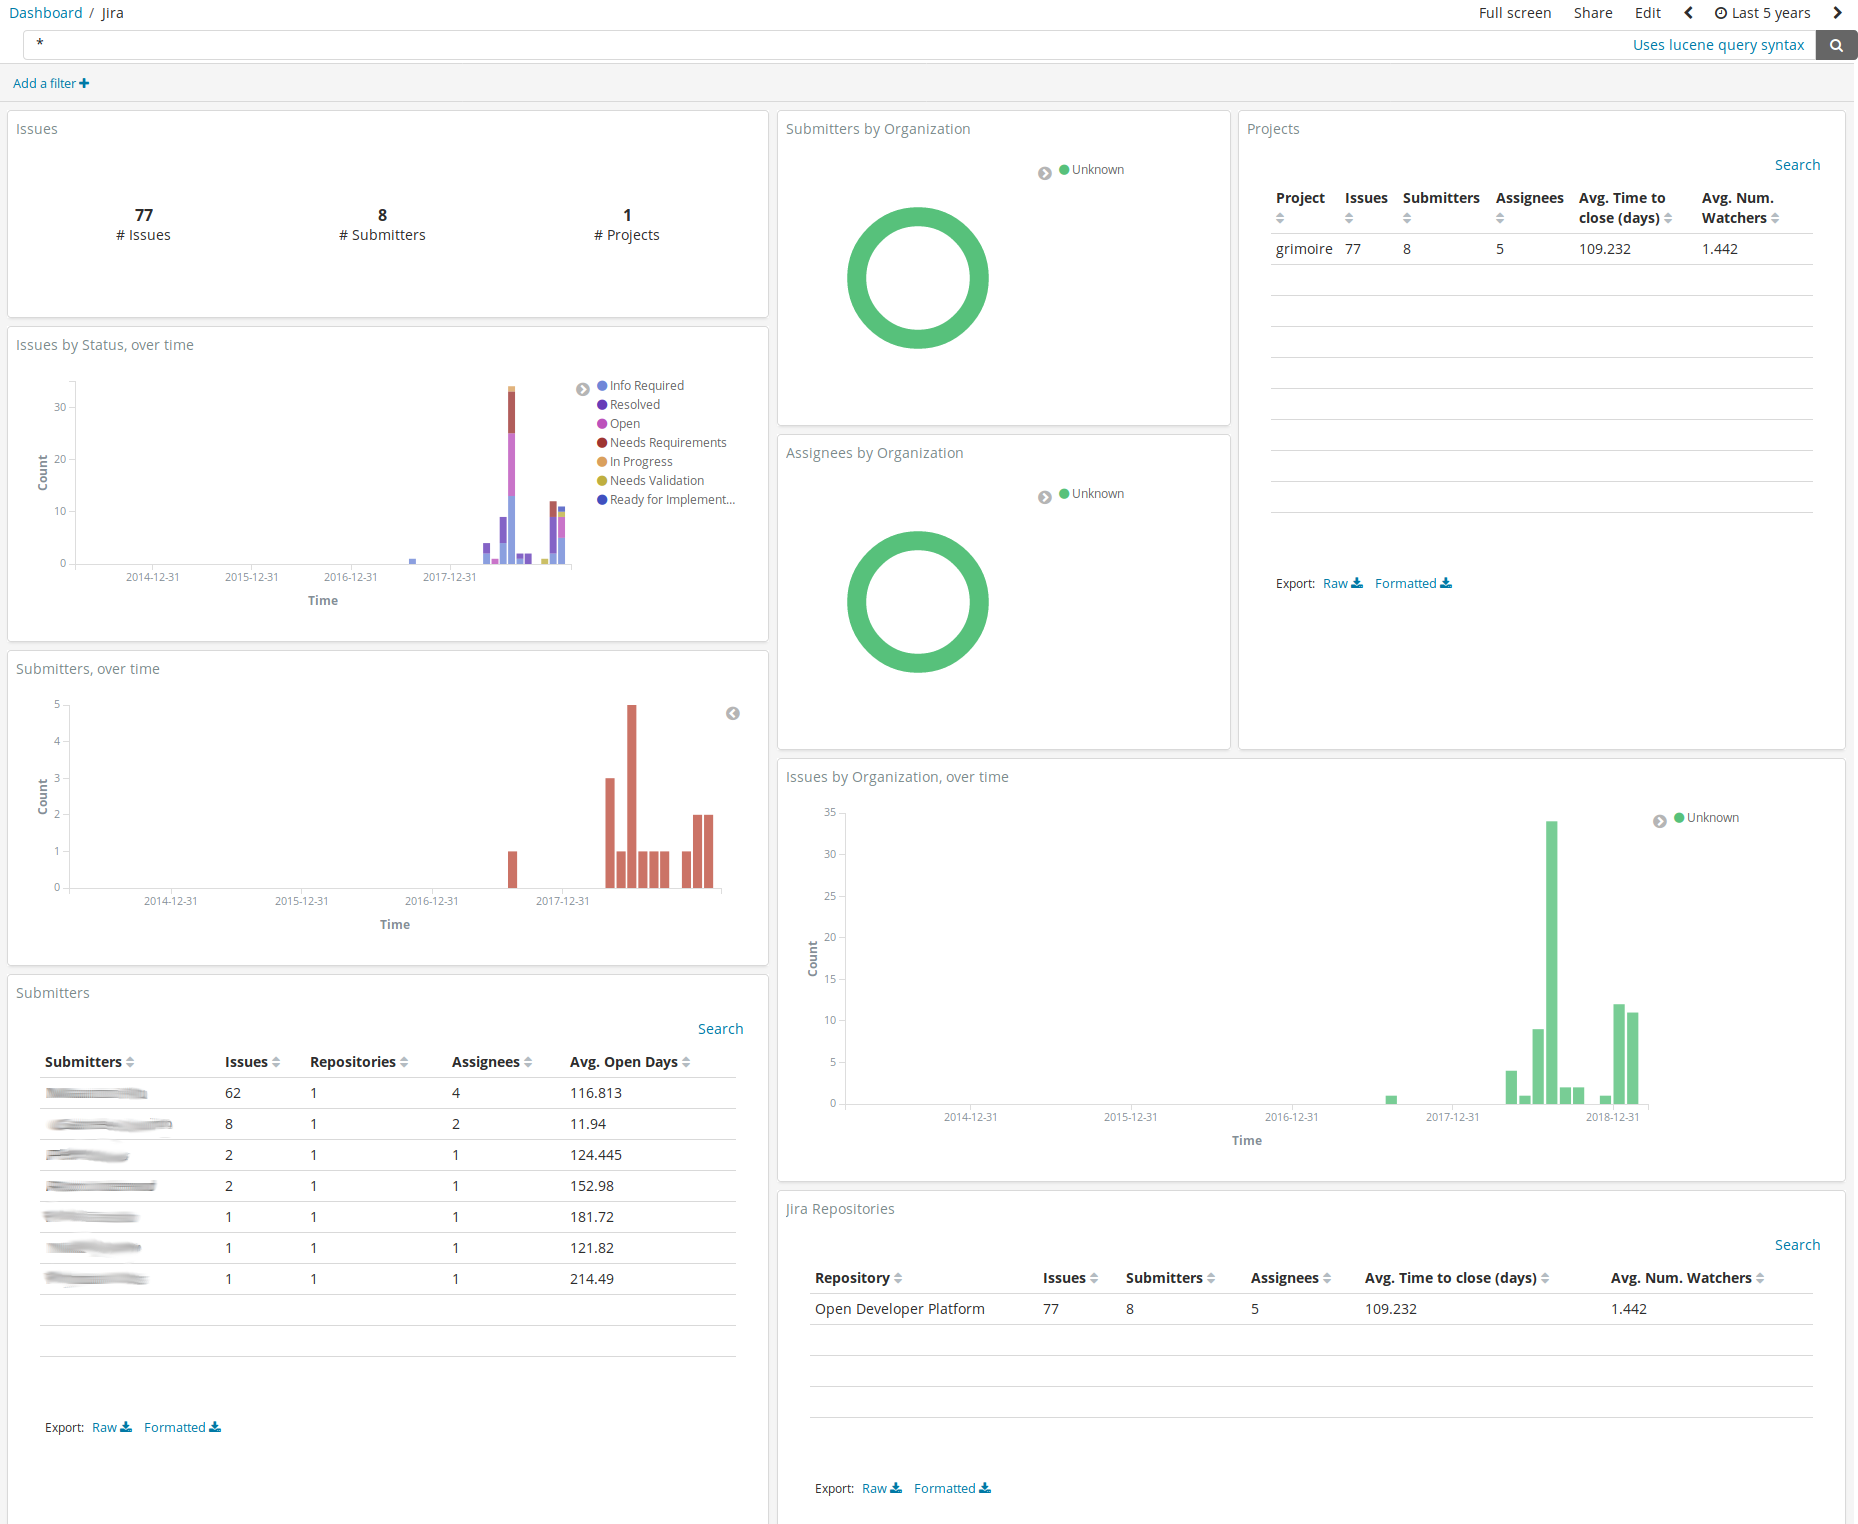
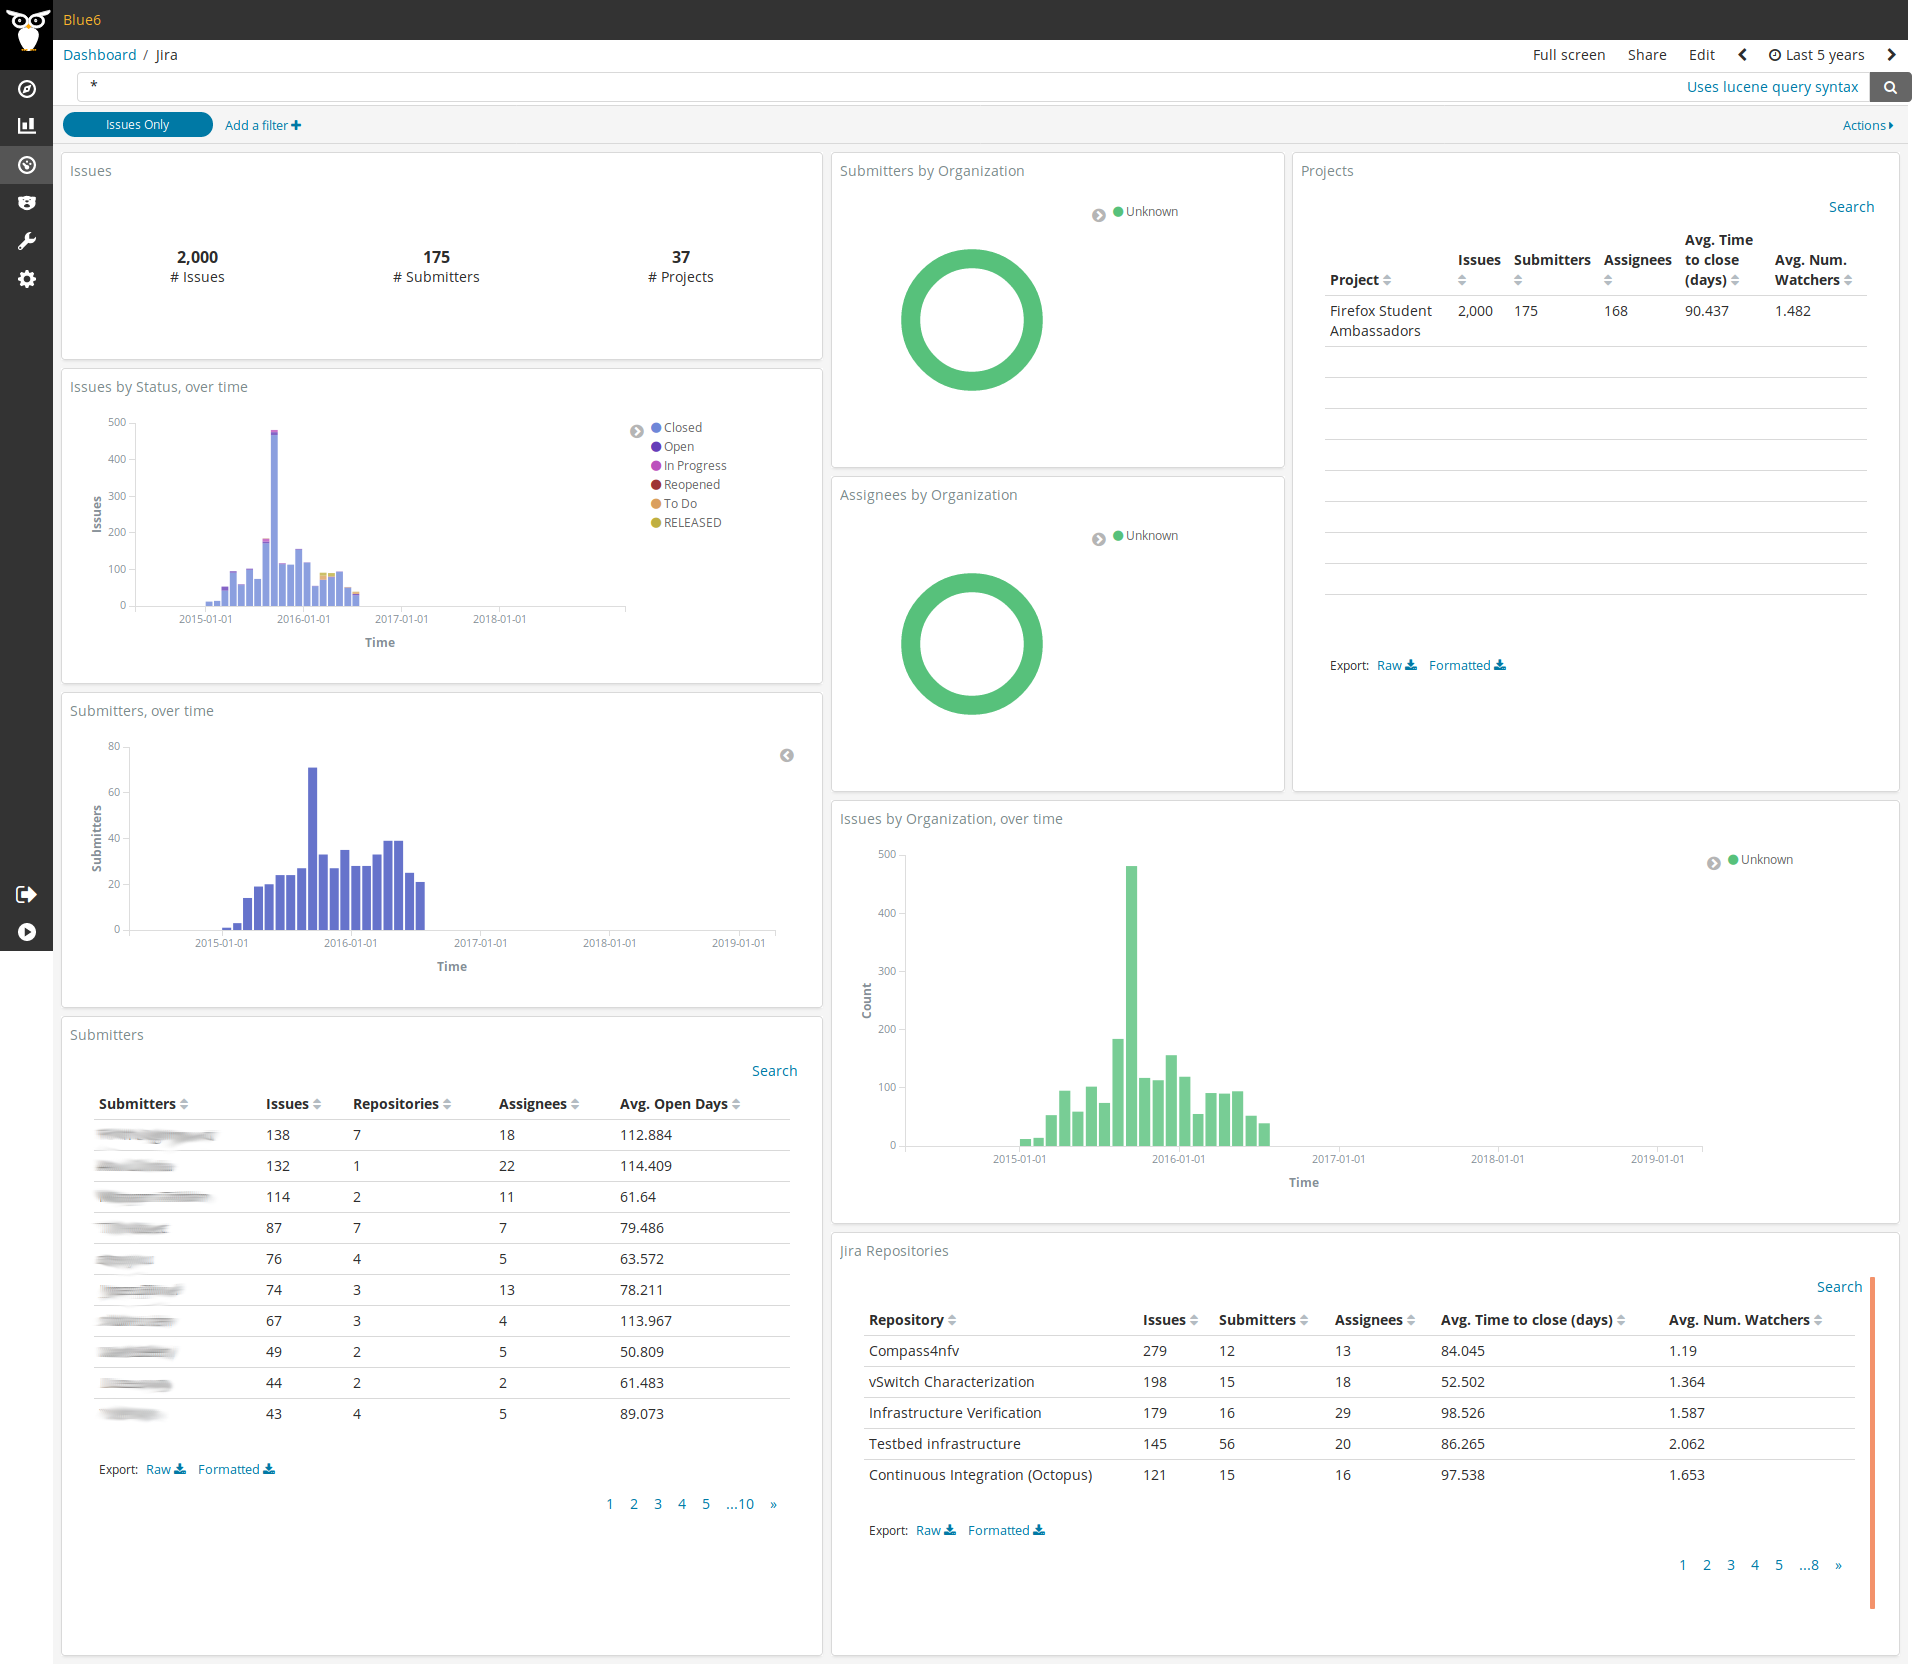
Update Jira panel documentation
Add new screenshot and information about the filter for issues.

diff --git a/docs/_panels/jira.md b/docs/_panels/jira.md
@@ -3,7 +3,7 @@ title: Jira
 description: metrics focused on Jira issues.
 author: Bitergia
 screenshot: sigils/jira.png
-created_at: 
+created_at:
 grimoirelab_version: 0.2.0
 layout: panel
 ---
@@ -13,8 +13,12 @@ focused in the number of issues submitted, the people reporting
 them and how long takes issues remain opened or to close them.
 
 This panel gives also special attention to the organizations related
-to these issues, the projecs and the repositories where they were
+to these issues, the projects and the repositories where they were
 submitted.
+
+Note there is a blue filter on top for filtering in issues, so comments
+are excluded from panel calculations although they are also stored in the
+index. A field named `type` allows us to differentiate between them.
 
 
 ## Metrics
@@ -40,4 +44,4 @@ From left to right and top to bottom, the metrics provided are:
   where she collaborated or the average in days her tickets are/were
   remained open.
 * **Jira repositories**: table with the activity per repository and the
-  average time to close an issue. 
+  average time to close an issue.
